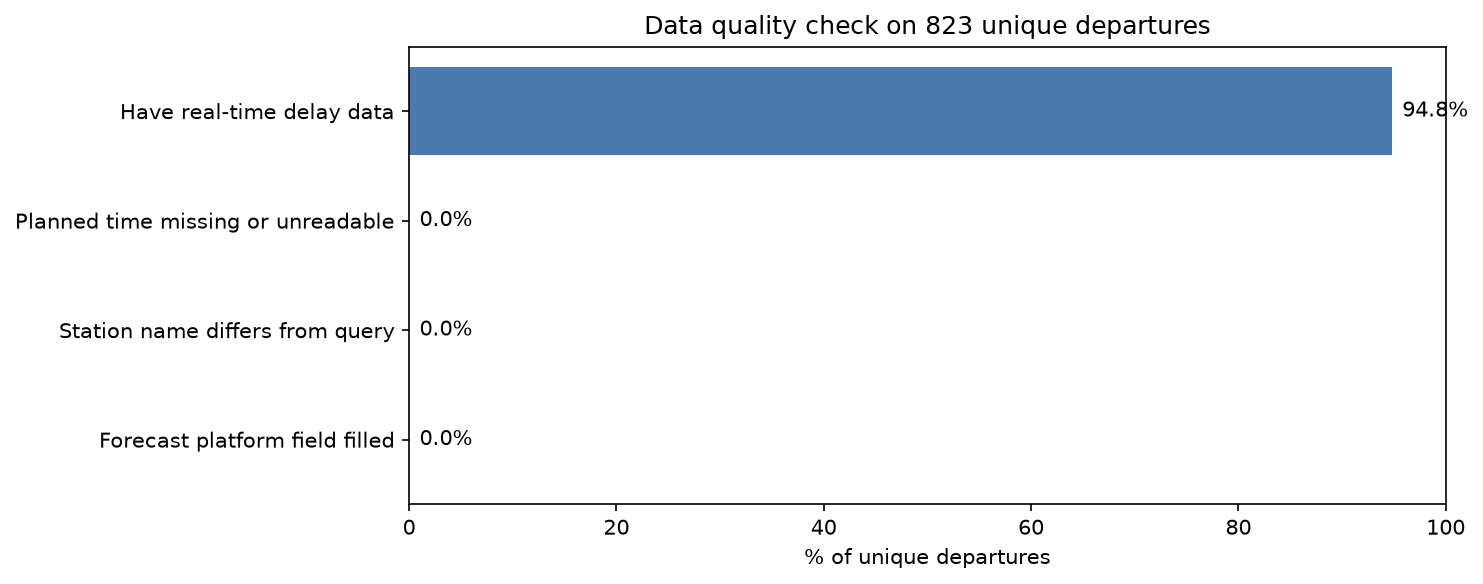
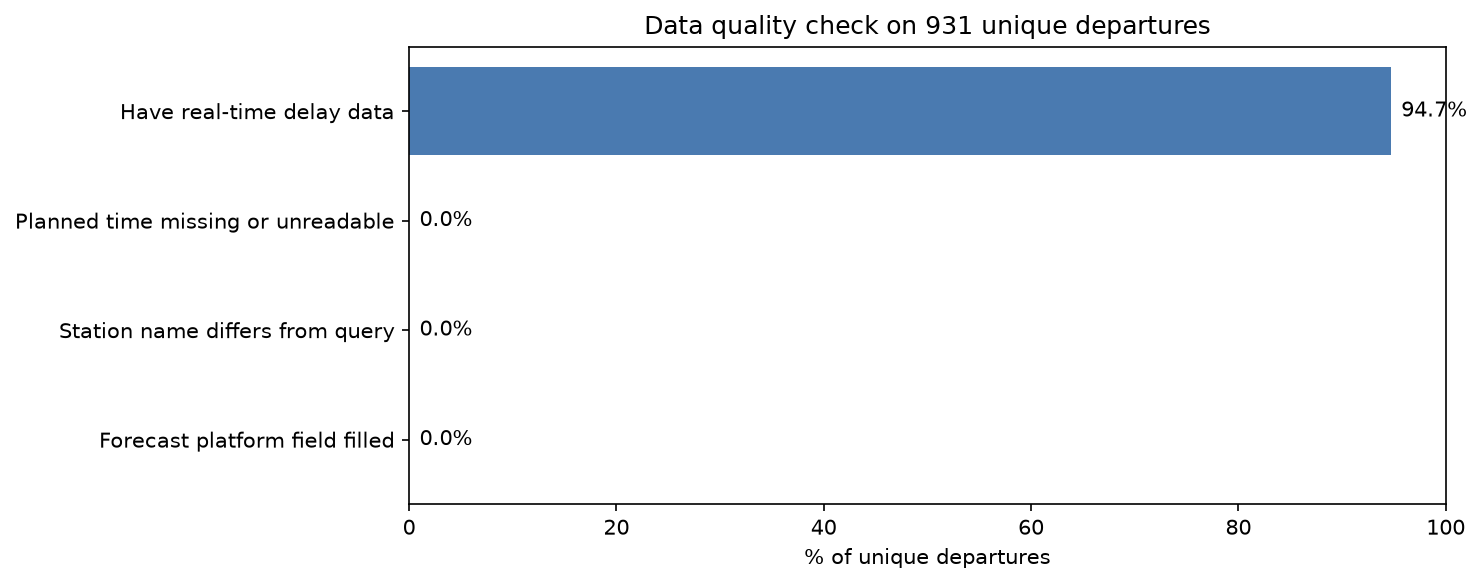
report: update results

diff --git a/reports/summary.md b/reports/summary.md
@@ -1,18 +1,18 @@
 # Latest results
 
-Data from 2026-11-19 19:38 to 2026-11-24 03:51 (Swiss time), 6 day file(s), 12 snapshots.
+Data from 2026-11-19 19:38 to 2026-11-25 01:09 (Swiss time), 7 day file(s), 14 snapshots.
 
-- Rows collected: 823
-- Unique departures: 823
-- Departures analysed (close to departure, with delay data): 567
-- On time (under 3 min late): 96.6%
-- Average delay: 0.45 min
-- 5+ min late: 1.8%
-- Lowest on-time rate: Lausanne (88.1%)
+- Rows collected: 931
+- Unique departures: 931
+- Departures analysed (close to departure, with delay data): 644
+- On time (under 3 min late): 96.9%
+- Average delay: 0.41 min
+- 5+ min late: 1.6%
+- Lowest on-time rate: Lausanne (89.2%)
 
 ## Data quality
 
-- Have real-time delay data: 94.8%
+- Have real-time delay data: 94.7%
 - Forecast platform field filled: 0.0%
 - Station name differs from query: 0.0%
 - Planned time missing or unreadable: 0.0%
